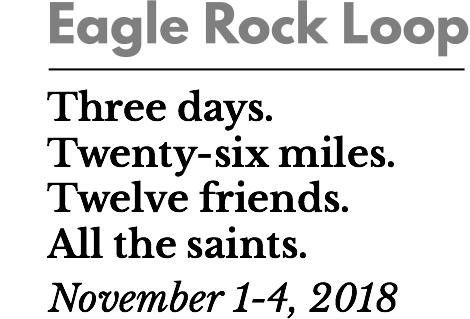
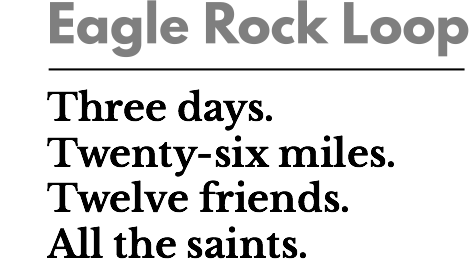
update

Changed region(s): [[0.0894, 0.0, 1.0, 1.0]]

diff --git a/index.html b/index.html
@@ -86,7 +86,7 @@
       <div class="wrapper">
         <div class="home">
 
-<p><img src="/assets/nights-leftspace.png" width="245" align="right">Do justice, love kindness, and walk humbly. According to the book of Micah, that is what is required of us on this earthly journey. This fall, join fellow pilgrims in a physical exploration of this verse. We will hike humbly through the scenic Arkansas woods, camping along the way, learning from the natural world and one another.</p>
+<p><img src="/assets/nights-leftspace.png" width="245" align="right">Do justice, love kindness, and walk humbly. According to the book of Micah, that is what is required of us on this earthly journey. On November 1-4, 2018, join fellow pilgrims in a physical exploration of this verse. We will hike humbly through the scenic Arkansas woods, camping along the way, learning from the natural world and one another.</p>
 
 <p><center><img src="/assets/windingstairs.jpg" width="100%"></a></center></p>
 
